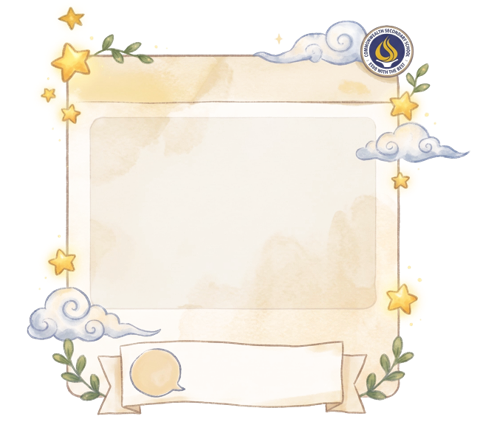
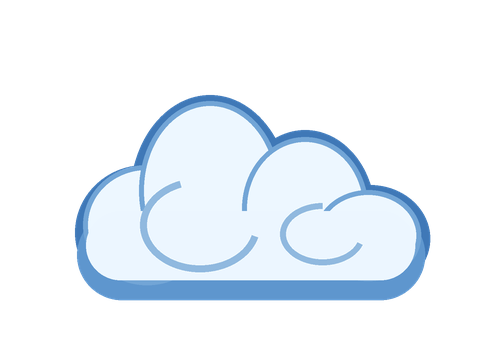
Add files via upload

diff --git a/index.html b/index.html
@@ -1,0 +1,106 @@
+<!DOCTYPE html>
+<html lang="zh-Hans">
+<head>
+<meta charset="UTF-8">
+<meta name="viewport" content="width=device-width, initial-scale=1, viewport-fit=cover">
+<title>Commonwealth Sec Chinese Challenge</title>
+<style>
+:root{--navy:#0a437a;--gold:#f6c555;--red:#c74343;--green:#23834b}
+*{box-sizing:border-box}
+html,body{margin:0;min-height:100%;font-family:Arial,"KaiTi","楷体",STKaiti,sans-serif;color:#24384b}
+body{min-height:100dvh;background:url('bg.jpg') center center / 100% 100% fixed no-repeat;display:flex;flex-direction:column;align-items:center;overflow-x:hidden}
+body::before{content:"";position:fixed;inset:0;background:rgba(255,255,255,.13);pointer-events:none;z-index:-1}
+#header{width:100%;padding:12px clamp(12px,3vw,28px);background:rgba(255,255,255,.83);backdrop-filter:blur(8px);display:flex;gap:12px;align-items:center;justify-content:space-between;color:var(--navy);font-weight:700;position:relative;z-index:3}
+.score-board{background:var(--gold);border-radius:22px;padding:8px 13px;color:#fff;display:flex;flex-wrap:wrap;gap:8px 16px;white-space:nowrap}
+.screen{display:none;width:100%;flex:1;min-height:0;padding:20px 14px 28px;align-items:center;justify-content:center;flex-direction:column;text-align:center;gap:16px}
+.screen.active{display:flex}
+h1,h2{color:var(--navy);margin:0 0 12px}p{line-height:1.55;margin:0 0 15px;font-weight:600}
+button{border:0;border-radius:30px;background:var(--gold);color:white;font:700 1.1rem Arial,"KaiTi",sans-serif;padding:13px 25px;cursor:pointer;box-shadow:0 5px 14px #0002;touch-action:manipulation}
+button:active{transform:scale(.97)}button:focus-visible{outline:3px solid var(--navy);outline-offset:3px}
+.hero-logo{width:min(440px,75vw);max-height:30dvh;object-fit:contain;border-radius:16px;box-shadow:0 6px 18px #0003}
+.plain-panel,.instructions-panel,.end-panel{width:min(700px,94vw);padding:clamp(22px,4vw,42px);border-radius:22px;box-shadow:0 12px 32px #17324c33}
+.plain-panel{background:rgba(255,255,255,.92)}
+.instructions-panel{background:rgba(255,255,255,.78);backdrop-filter:blur(9px);max-height:calc(100dvh - 120px);overflow-y:auto}
+.instructions-panel p{font-size:clamp(.92rem,1.65vw,1.1rem)}
+.instructions-logo{width:min(210px,45vw);max-height:17dvh;object-fit:contain;border-radius:13px;box-shadow:0 4px 14px #0002;margin-bottom:4px}
+#menu-screen{padding-top:clamp(32px,6dvh,76px)}
+#instructions-screen{gap:10px}
+.end-panel{background:rgba(255,255,255,.9)}
+.time-note{color:var(--red)}
+/* The frame is used ONLY for the actual game. */
+.game-container{position:relative;width:min(830px,96vw);height:min(780px,calc(100dvh - 90px));min-height:430px;isolation:isolate}
+.game-container::before{content:'';position:absolute;inset:0;background:url('frame.png') center/100% 100% no-repeat;pointer-events:none;z-index:0}
+#game1-play-area{position:absolute;inset:0;z-index:1}
+.game-stats{position:absolute;top:12%;left:14%;right:14%;display:flex;justify-content:space-between;gap:10px;z-index:4;color:var(--navy);font-weight:800;font-size:clamp(.9rem,2vw,1.3rem)}
+.game-stats>div{background:rgba(255,255,255,.65);padding:5px 9px;border-radius:12px}
+/* Keep the falling items inside the blank centre of frame.png. */
+#fall-zone{position:absolute;top:26%;bottom:26%;left:20%;right:20%;overflow:hidden;z-index:2;touch-action:manipulation}
+.falling-char{z-index:5;position:absolute;top:0;left:0;width:clamp(62px,9vw,88px);height:clamp(62px,9vw,88px);display:flex;justify-content:center;align-items:center;border:0;background:transparent;box-shadow:none;padding:0;margin:0;transform:translate(-50%,-110%);user-select:none;-webkit-user-select:none;touch-action:manipulation;cursor:pointer;animation:fall var(--fall-duration,5.5s) linear forwards;will-change:top}
+.falling-char img{position:absolute;inset:0;width:100%;height:100%;object-fit:contain;pointer-events:none}
+.falling-char span{position:relative;z-index:1;font-size:clamp(1.55rem,3.2vw,2.1rem);font-weight:900;color:#123c66;text-shadow:0 1px 3px white,0 -1px 3px white,1px 0 3px white,-1px 0 3px white;pointer-events:none}
+@keyframes fall{from{top:0}to{top:calc(100% + 100px)}}
+.target-word-display{position:absolute;bottom:12%;left:24%;width:52%;background:rgba(255,249,231,.96);border:2px solid #d6b67c;border-radius:16px;padding:10px 8px;font-size:clamp(1.15rem,3.4vw,2.25rem);font-weight:800;color:var(--navy);z-index:4;overflow-wrap:anywhere;line-height:1.2}
+.feedback-pop{position:absolute;z-index:8;font-weight:900;font-size:1.6rem;pointer-events:none;animation:popUp .8s ease-out forwards}
+@keyframes popUp{to{opacity:0;transform:translateY(-40px) scale(1.2)}}
+@media(max-width:600px){#header{font-size:.75rem;flex-wrap:wrap;justify-content:center;text-align:center}.score-board{font-size:.8rem}.screen{padding:12px 8px 20px}.game-container{width:min(98vw,650px);height:min(690px,calc(100dvh - 120px));min-height:370px;background-size:100% 100%}.game-stats{top:12%;left:13%;right:13%;font-size:.8rem}#fall-zone{left:20%;right:20%;top:26%;bottom:26%}.target-word-display{bottom:12%;left:24%;width:52%}.falling-char{width:60px;height:60px}}
+@media(max-height:650px) and (min-width:650px){.screen{padding:8px}.hero-logo{max-height:18dvh}.game-container{height:calc(100dvh - 85px);min-height:350px}.instructions-panel{padding:18px;max-height:calc(100dvh - 85px)}}
+.end-art{display:flex;justify-content:center;align-items:center;gap:16px;margin:2px auto 12px}.end-art img{width:clamp(65px,10vw,100px);height:clamp(65px,10vw,100px);object-fit:contain;}.final-points{font-size:clamp(2.5rem,7vw,4rem);color:var(--navy);font-weight:900;margin:6px 0}.end-panel{background:rgba(255,255,255,.88)}
+@media(prefers-reduced-motion:reduce){.feedback-pop{animation:none}}
+
+/* Artwork and iPad fixes */
+.instructions-logo{width:min(570px,85vw);max-height:25dvh;box-shadow:none;border-radius:18px}
+.congrats-banner{display:block;width:min(560px,100%);height:auto;max-height:24dvh;object-fit:contain;margin:0 auto 12px;border-radius:16px}
+#menu-screen{padding-top:clamp(38px,8dvh,95px)}
+.game-container{width:min(830px,96vw);height:min(780px,calc(100dvh - 90px))}
+.falling-char{width:clamp(76px,10vw,106px);height:clamp(76px,10vw,106px);-webkit-tap-highlight-color:transparent}
+.falling-char:active{filter:brightness(1.08);transform:translate(-50%,-110%) scale(.95)}
+@media(max-width:600px){.game-container{height:min(680px,calc(100dvh - 110px))}.falling-char{width:64px;height:64px}}
+
+.game-container::before{background-image:url('frame.png')!important;clip-path:none!important;background-size:100% 100%!important}.falling-char img{mix-blend-mode:normal!important}.game-container{width:min(830px,96vw)!important}.game-stats{top:17%!important;left:22%!important;right:22%!important}#fall-zone{top:30%!important;bottom:30%!important;left:20%!important;right:20%!important}.target-word-display{bottom:12%!important;left:24%!important;width:52%!important}.instructions-logo{width:min(570px,85vw)!important;max-height:25dvh!important}
+
+/* FINAL: transparent decorative frame and accurate school crest at bottom-right */
+.game-container::before{background-image:url('frame.png')!important;background-size:100% 100%!important}
+body{background-size:cover;background-position:center center;background-attachment:fixed}
+#school-crest{position:fixed;right:clamp(10px,2vw,28px);bottom:clamp(10px,2vh,24px);width:clamp(68px,8vw,112px);height:auto;z-index:2;border-radius:50%;background:white;box-shadow:0 3px 15px #102a4c66;pointer-events:none}
+.screen{position:relative;z-index:3}
+.falling-char{width:clamp(72px,9vw,94px)!important;height:clamp(72px,9vw,94px)!important}
+.falling-char span{font-size:clamp(1.7rem,3vw,2.25rem);text-shadow:0 2px 3px #fff,0 -2px 3px #fff,2px 0 3px #fff,-2px 0 3px #fff}
+@media(max-width:600px){#school-crest{width:62px;right:8px;bottom:8px}.falling-char{width:58px!important;height:58px!important}}
+</style>
+</head>
+<body>
+<img id="school-crest" src="school-logo.jpg" alt="Commonwealth Secondary School official logo">
+<header id="header"><div>✨ 欢迎来到立才中学 Commonwealth Secondary School!</div><div class="score-board"><span>最高分 (Best): <span id="highest-score">0</span></span><span>当前积分: <span id="total-score">0</span></span></div></header>
+<main id="menu-screen" class="screen active">
+<img src="logo.jpg" alt="Commonwealth Secondary Chinese" class="hero-logo">
+<section class="plain-panel"><h1>汉字保卫战</h1><label for="level-select">选择难度 · Choose Level </label><select id="level-select" style="padding:9px;border-radius:12px;margin:8px;background:#fff8df"><option value="0">小一 · P1</option><option value="1">小二 · P2</option><option value="2">小三 · P3</option><option value="3">小四 · P4</option><option value="4">小五 · P5</option><option value="5">小六 · P6</option><option value="all">混合 · Mixed</option></select><p>星光挑战开始啦！在75秒内接住正确汉字，补全成语，赢取高分！</p><p>Ready for a starry challenge? Catch the right characters and complete the idioms in 75 seconds!</p><button type="button" onclick="showInstructions()">踏上星途 (Begin the Journey)</button></section>
+</main>
+<main id="instructions-screen" class="screen"><img src="instructions-banner.png" alt="魔法汉字星空与书本" class="instructions-logo"><section class="instructions-panel"><h2>游戏说明 · 汉字保卫战</h2><p>星星、月亮、云朵和火焰带着汉字从天而降！看准下方的成语，点击正确汉字，别被调皮的错字骗啦！</p><p>答对一题得<strong>20分</strong>。你有<strong>1分15秒</strong>，快来挑战最高分！</p><p>Stars, moons, clouds and flames are raining down with Chinese characters! Tap the right one to complete each idiom. Watch out for sneaky decoys!</p><p>Earn <strong>20 points</strong> per correct answer. You have <strong>75 seconds</strong> to shine!</p><button type="button" onclick="initGame1()">出发！(Let's Go!)</button></section></main>
+<main id="round1-screen" class="screen"><section class="game-container" aria-label="Falling Chinese character game"><div id="game1-play-area"><div class="game-stats"><div>⏱ <span id="g1-timer">1:15</span></div><div>得分: <span id="g1-score">0</span></div></div><div id="fall-zone" aria-label="Falling character choices"></div><div class="target-word-display" id="g1-target-word" aria-live="polite">准备...</div></div></section></main>
+<main id="end-screen" class="screen"><section class="end-panel"><img class="congrats-banner" src="congratulations-banner.png" alt="星星、月亮和云朵庆祝横幅"><h1>恭喜你！你真棒！🎉</h1><p>星光闪闪，挑战成功！每一分都是你的努力！</p><p>Congratulations, superstar! You completed the challenge!</p><div class="final-points"><span id="final-score">0</span> <span style="font-size:.42em">分 · points</span></div><p id="end-message">继续加油，下一次再创佳绩！</p><button type="button" onclick="restartGame()">再玩一次 (Play Again)</button></section></main>
+<script>
+'use strict';
+const GAME_SECONDS=75;
+const LEVELS=[["一心一意","一模一样","一年四季","三心二意","四面八方","五颜六色","七上八下","十全十美","千言万语","万紫千红","小心翼翼","大公无私","大吃一惊","五光十色","自言自语","欢天喜地","笑逐颜开","手舞足蹈","东张西望","左右为难","上下一心","风和日丽","春暖花开","鸟语花香","秋高气爽","冰天雪地","狂风暴雨","山清水秀","花红柳绿","天长地久","人山人海","水落石出","不知不觉","无忧无虑","一帆风顺","半途而废","自由自在","争先恐后","井井有条","乱七八糟","慢条斯理","狼吞虎咽","津津有味","目瞪口呆","哈哈大笑","心花怒放","垂头丧气","张灯结彩","迫不及待","全心全意","兴高采烈","聚精会神","专心致志","爱不释手","百发百中","拔苗助长","画蛇添足","守株待兔","亡羊补牢","掩耳盗铃","刻舟求剑","画龙点睛","狐假虎威","井底之蛙","对牛弹琴","一言为定","一日千里","三三两两","成群结队","无影无踪","有说有笑","九牛一毛","一干二净","七嘴八舌","眉开眼笑"],["兴致勃勃","异口同声","引人注目","川流不息","车水马龙","热闹非凡","灯火辉煌","万里无云","晴空万里","阳光明媚","风平浪静","波光粼粼","郁郁葱葱","绿草如茵","百花齐放","争奇斗艳","姹紫嫣红","硕果累累","瓜果飘香","五谷丰登","白雪皑皑","寒风刺骨","烈日炎炎","大雨倾盆","电闪雷鸣","雷厉风行","惊天动地","翻天覆地","眼花缭乱","目不转睛","全神贯注","一目了然","一举两得","一箭双雕","一石二鸟","虎头蛇尾","龙飞凤舞","马到成功","鸦雀无声","呆若木鸡","活蹦乱跳","生龙活虎","栩栩如生","惟妙惟肖","无精打采","精神抖擞","神采奕奕","满头大汗","汗流浃背","气喘吁吁","大汗淋漓","勤学好问","助人为乐","乐于助人","舍己为人","团结友爱","礼尚往来","彬彬有礼","和蔼可亲","平易近人","热情好客","诚心诚意","实事求是","言而有信","说到做到","知错就改","见义勇为","拾金不昧","不屈不挠","持之以恒","坚持不懈","勤能补拙","温故知新","熟能生巧","学以致用"],["一丝不苟","一鸣惊人","一举成名","自力更生","自食其力","自强不息","精益求精","孜孜不倦","废寝忘食","刻苦钻研","锲而不舍","滴水穿石","愚公移山","铁杵成针","凿壁偷光","悬梁刺股","囊萤映雪","韦编三绝","手不释卷","博览群书","融会贯通","举一反三","触类旁通","学无止境","不耻下问","虚心好学","取长补短","洗耳恭听","乐此不疲","津津乐道","滔滔不绝","口若悬河","侃侃而谈","对答如流","妙语连珠","语重心长","苦口婆心","言简意赅","绘声绘色","有声有色","声情并茂","慷慨激昂","振振有词","理直气壮","无话可说","哑口无言","张口结舌","瞠目结舌","惊慌失措","手忙脚乱","忐忑不安","提心吊胆","心惊胆战","毛骨悚然","不寒而栗","胆小如鼠","勇往直前","奋不顾身","临危不惧","英勇无畏","身强力壮","健步如飞","风驰电掣","日新月异","突飞猛进","蒸蒸日上","欣欣向荣","繁荣昌盛","国泰民安","安居乐业","丰衣足食","和睦相处","同心协力","齐心协力","众志成城"],["画饼充饥","望梅止渴","杞人忧天","邯郸学步","东施效颦","买椟还珠","自相矛盾","滥竽充数","郑人买履","惊弓之鸟","鹬蚌相争","渔翁得利","螳臂当车","黔驴技穷","鹏程万里","塞翁失马","胸有成竹","一诺千金","完璧归赵","负荆请罪","破釜沉舟","草木皆兵","纸上谈兵","围魏救赵","四面楚歌","背水一战","三顾茅庐","草船借箭","乐不思蜀","如鱼得水","近水楼台","脱颖而出","毛遂自荐","万事俱备","手到擒来","掉以轻心","防患未然","未雨绸缪","居安思危","有备无患","防微杜渐","千钧一发","迫在眉睫","火烧眉毛","燃眉之急","雪中送炭","锦上添花","同舟共济","患难与共","风雨同舟","肝胆相照","情同手足","亲如手足","一见如故","情深意重","依依不舍","恋恋不舍","难舍难分","依依惜别","久别重逢","喜出望外","悲喜交加","百感交集","感慨万千","感激涕零","热泪盈眶","泣不成声","破涕为笑","啼笑皆非","哭笑不得","愁眉苦脸","闷闷不乐","郁郁寡欢","忧心忡忡","心事重重"],["脍炙人口","家喻户晓","名扬四海","举世闻名","举世无双","无与伦比","独一无二","别具一格","独具匠心","匠心独运","巧夺天工","鬼斧神工","美轮美奂","金碧辉煌","富丽堂皇","雕梁画栋","古色古香","源远流长","博大精深","兼收并蓄","海纳百川","包罗万象","琳琅满目","应有尽有","目不暇接","美不胜收","叹为观止","流连忘返","乐而忘返","赏心悦目","心旷神怡","沁人心脾","回味无穷","余音绕梁","悦耳动听","抑扬顿挫","如痴如醉","如梦初醒","恍然大悟","茅塞顿开","豁然开朗","柳暗花明","绝处逢生","化险为夷","转危为安","否极泰来","苦尽甘来","时来运转","来之不易","事半功倍","事倍功半","一劳永逸","得不偿失","因小失大","因祸得福","两全其美","面面俱到","万无一失","十拿九稳","稳操胜券","势如破竹","所向无敌","战无不胜","攻无不克","百战百胜","兵贵神速","知己知彼","出奇制胜","以逸待劳","声东击西","调虎离山","釜底抽薪","隔岸观火","趁火打劫","乘人之危"],["沧海一粟","沧海桑田","天经地义","理所当然","当仁不让","义不容辞","责无旁贷","鞠躬尽瘁","死而后已","任重道远","先忧后乐","忧国忧民","精忠报国","舍生取义","大义凛然","视死如归","宁死不屈","坚贞不屈","临危受命","力挽狂澜","中流砥柱","栋梁之材","德才兼备","才华横溢","学富五车","满腹经纶","博学多才","才高八斗","出类拔萃","鹤立鸡群","脱胎换骨","焕然一新","面目全非","今非昔比","物是人非","睹物思人","饮水思源","慎终追远","追本溯源","返璞归真","顺理成章","水到渠成","瓜熟蒂落","循序渐进","按部就班","谨小慎微","如履薄冰","如临深渊","战战兢兢","兢兢业业","夙兴夜寐","披星戴月","风尘仆仆","跋山涉水","千辛万苦","艰苦卓绝","饱经风霜","历尽沧桑","含辛茹苦","无微不至","体贴入微","关怀备至","恩重如山","感恩戴德","铭记在心","刻骨铭心","念念不忘","魂牵梦萦","一波三折","峰回路转","扣人心弦","引人入胜","耐人寻味","发人深省","意味深长"]];
+let vocabBank=LEVELS[0].map(w=>[w.slice(0,3),w[3],[w[3],...Array.from(new Set(LEVELS.flat().join(''))).filter(c=>!w.includes(c)).slice(0,3)]]);
+const assets=['star.png','moon.png','cloud.png','flame.png'];
+const $=id=>document.getElementById(id);
+let totalScore=0,highScore=0,timeLeft=GAME_SECONDS,question=null,remaining=[],roundToken=0,spawnTimers=[],nextTimer=null,clock=null,deadline=0,active=false,questionResolved=false;
+try{highScore=Number(localStorage.getItem('cwssHighScore'))||0}catch(e){}
+$('highest-score').textContent=highScore;
+function switchScreen(id){document.querySelectorAll('.screen').forEach(s=>s.classList.toggle('active',s.id===id))}
+function showInstructions(){switchScreen('instructions-screen')}
+function shuffle(arr){const a=[...arr];for(let i=a.length-1;i>0;i--){const j=Math.floor(Math.random()*(i+1));[a[i],a[j]]=[a[j],a[i]]}return a}
+function displayTime(seconds){return `${Math.floor(seconds/60)}:${String(seconds%60).padStart(2,'0')}`}
+function updateScore(){ $('total-score').textContent=totalScore;if(totalScore>highScore){highScore=totalScore;$('highest-score').textContent=highScore;try{localStorage.setItem('cwssHighScore',String(highScore))}catch(e){}}}
+function clearQuestion(){roundToken++;spawnTimers.forEach(clearTimeout);spawnTimers=[];clearTimeout(nextTimer);nextTimer=null;$('fall-zone').replaceChildren();document.querySelectorAll('.feedback-pop').forEach(el=>el.remove())}
+function initGame1(){clearInterval(clock);clearQuestion();totalScore=0;updateScore();timeLeft=GAME_SECONDS;{const v=$('level-select').value;const pool=v==='all'?LEVELS.flat():LEVELS[Number(v)];vocabBank=pool.map(w=>{let index=Math.floor(Math.random()*4),answer=w[index],wrong=shuffle(Array.from(new Set(LEVELS.flat().join(''))).filter(c=>!w.includes(c))).slice(0,3);return [w.slice(0,index),answer,[answer,...wrong],w.slice(index+1)]});remaining=shuffle(vocabBank)}active=true;questionResolved=false;$('g1-score').textContent='0';$('g1-timer').textContent=displayTime(timeLeft);switchScreen('round1-screen');deadline=Date.now()+GAME_SECONDS*1000;clock=setInterval(tick,200);loadNextQuestion()}
+function tick(){if(!active)return;timeLeft=Math.max(0,Math.ceil((deadline-Date.now())/1000));$('g1-timer').textContent=displayTime(timeLeft);if(timeLeft===0)gameOver1()}
+function loadNextQuestion(){if(!active)return;clearQuestion();questionResolved=false;if(!remaining.length)remaining=shuffle(vocabBank);question=remaining.pop();$('g1-target-word').textContent=question[0]+' [?]'+(question[3]||'');const options=shuffle(question[2]);const icons=shuffle(assets);const token=roundToken;options.forEach((char,i)=>{spawnTimers.push(setTimeout(()=>{if(!active||token!==roundToken)return;spawnBubble(char,icons[i],token)},i*450))});nextTimer=setTimeout(()=>{if(active&&token===roundToken&&!questionResolved)loadNextQuestion()},8300)}
+function spawnBubble(char,asset,token){const zone=$('fall-zone');const bubble=document.createElement('button');bubble.type='button';bubble.className='falling-char';bubble.setAttribute('aria-label',char);const img=document.createElement('img');img.src=asset;img.alt='';img.draggable=false;img.addEventListener('error',()=>{img.style.display='none';bubble.style.background='rgba(255,246,208,.94)';bubble.style.border='2px solid #e5b85d';bubble.style.borderRadius='50%'},{once:true});const label=document.createElement('span');label.textContent=char;bubble.append(img,label);bubble.style.left=`${[15,38,62,85][Math.min(3,zone.querySelectorAll('.falling-char').length)]}%`;bubble.style.setProperty('--fall-duration','3.5s');bubble.addEventListener('pointerdown',e=>{e.preventDefault();handleTap(bubble,char,token)},{once:true});bubble.addEventListener('animationend',()=>bubble.remove(),{once:true});zone.appendChild(bubble)}
+function handleTap(bubble,char,token){if(!active||token!==roundToken||questionResolved||!bubble.isConnected)return;const correct=char===question[1];const zone=$('fall-zone');const rect=bubble.getBoundingClientRect(),parent=zone.getBoundingClientRect();const feedback=document.createElement('div');feedback.className='feedback-pop';feedback.textContent=correct?'✔ +20':'✘';feedback.style.color=correct?'var(--green)':'var(--red)';feedback.style.left=`${rect.left-parent.left}px`;feedback.style.top=`${rect.top-parent.top}px`;zone.appendChild(feedback);setTimeout(()=>feedback.remove(),800);bubble.remove();if(correct){questionResolved=true;totalScore+=20;$('g1-score').textContent=totalScore;updateScore();const nextToken=roundToken;spawnTimers.forEach(clearTimeout);spawnTimers=[];clearTimeout(nextTimer);zone.querySelectorAll('.falling-char').forEach(el=>el.remove());nextTimer=setTimeout(()=>{if(active&&nextToken===roundToken)loadNextQuestion()},600)}}
+function gameOver1(){if(!active)return;active=false;clearInterval(clock);clearQuestion();$('final-score').textContent=totalScore;$('end-message').textContent=totalScore>=300?'太厉害了！你是汉字小达人！ 🌟':totalScore>=100?'表现精彩！继续闪耀吧！ ✨':'继续加油！每次挑战都会更棒！ 💛';switchScreen('end-screen')}
+function restartGame(){active=false;clearInterval(clock);clearQuestion();switchScreen('menu-screen')}
+</script>
+</body>
+</html>
